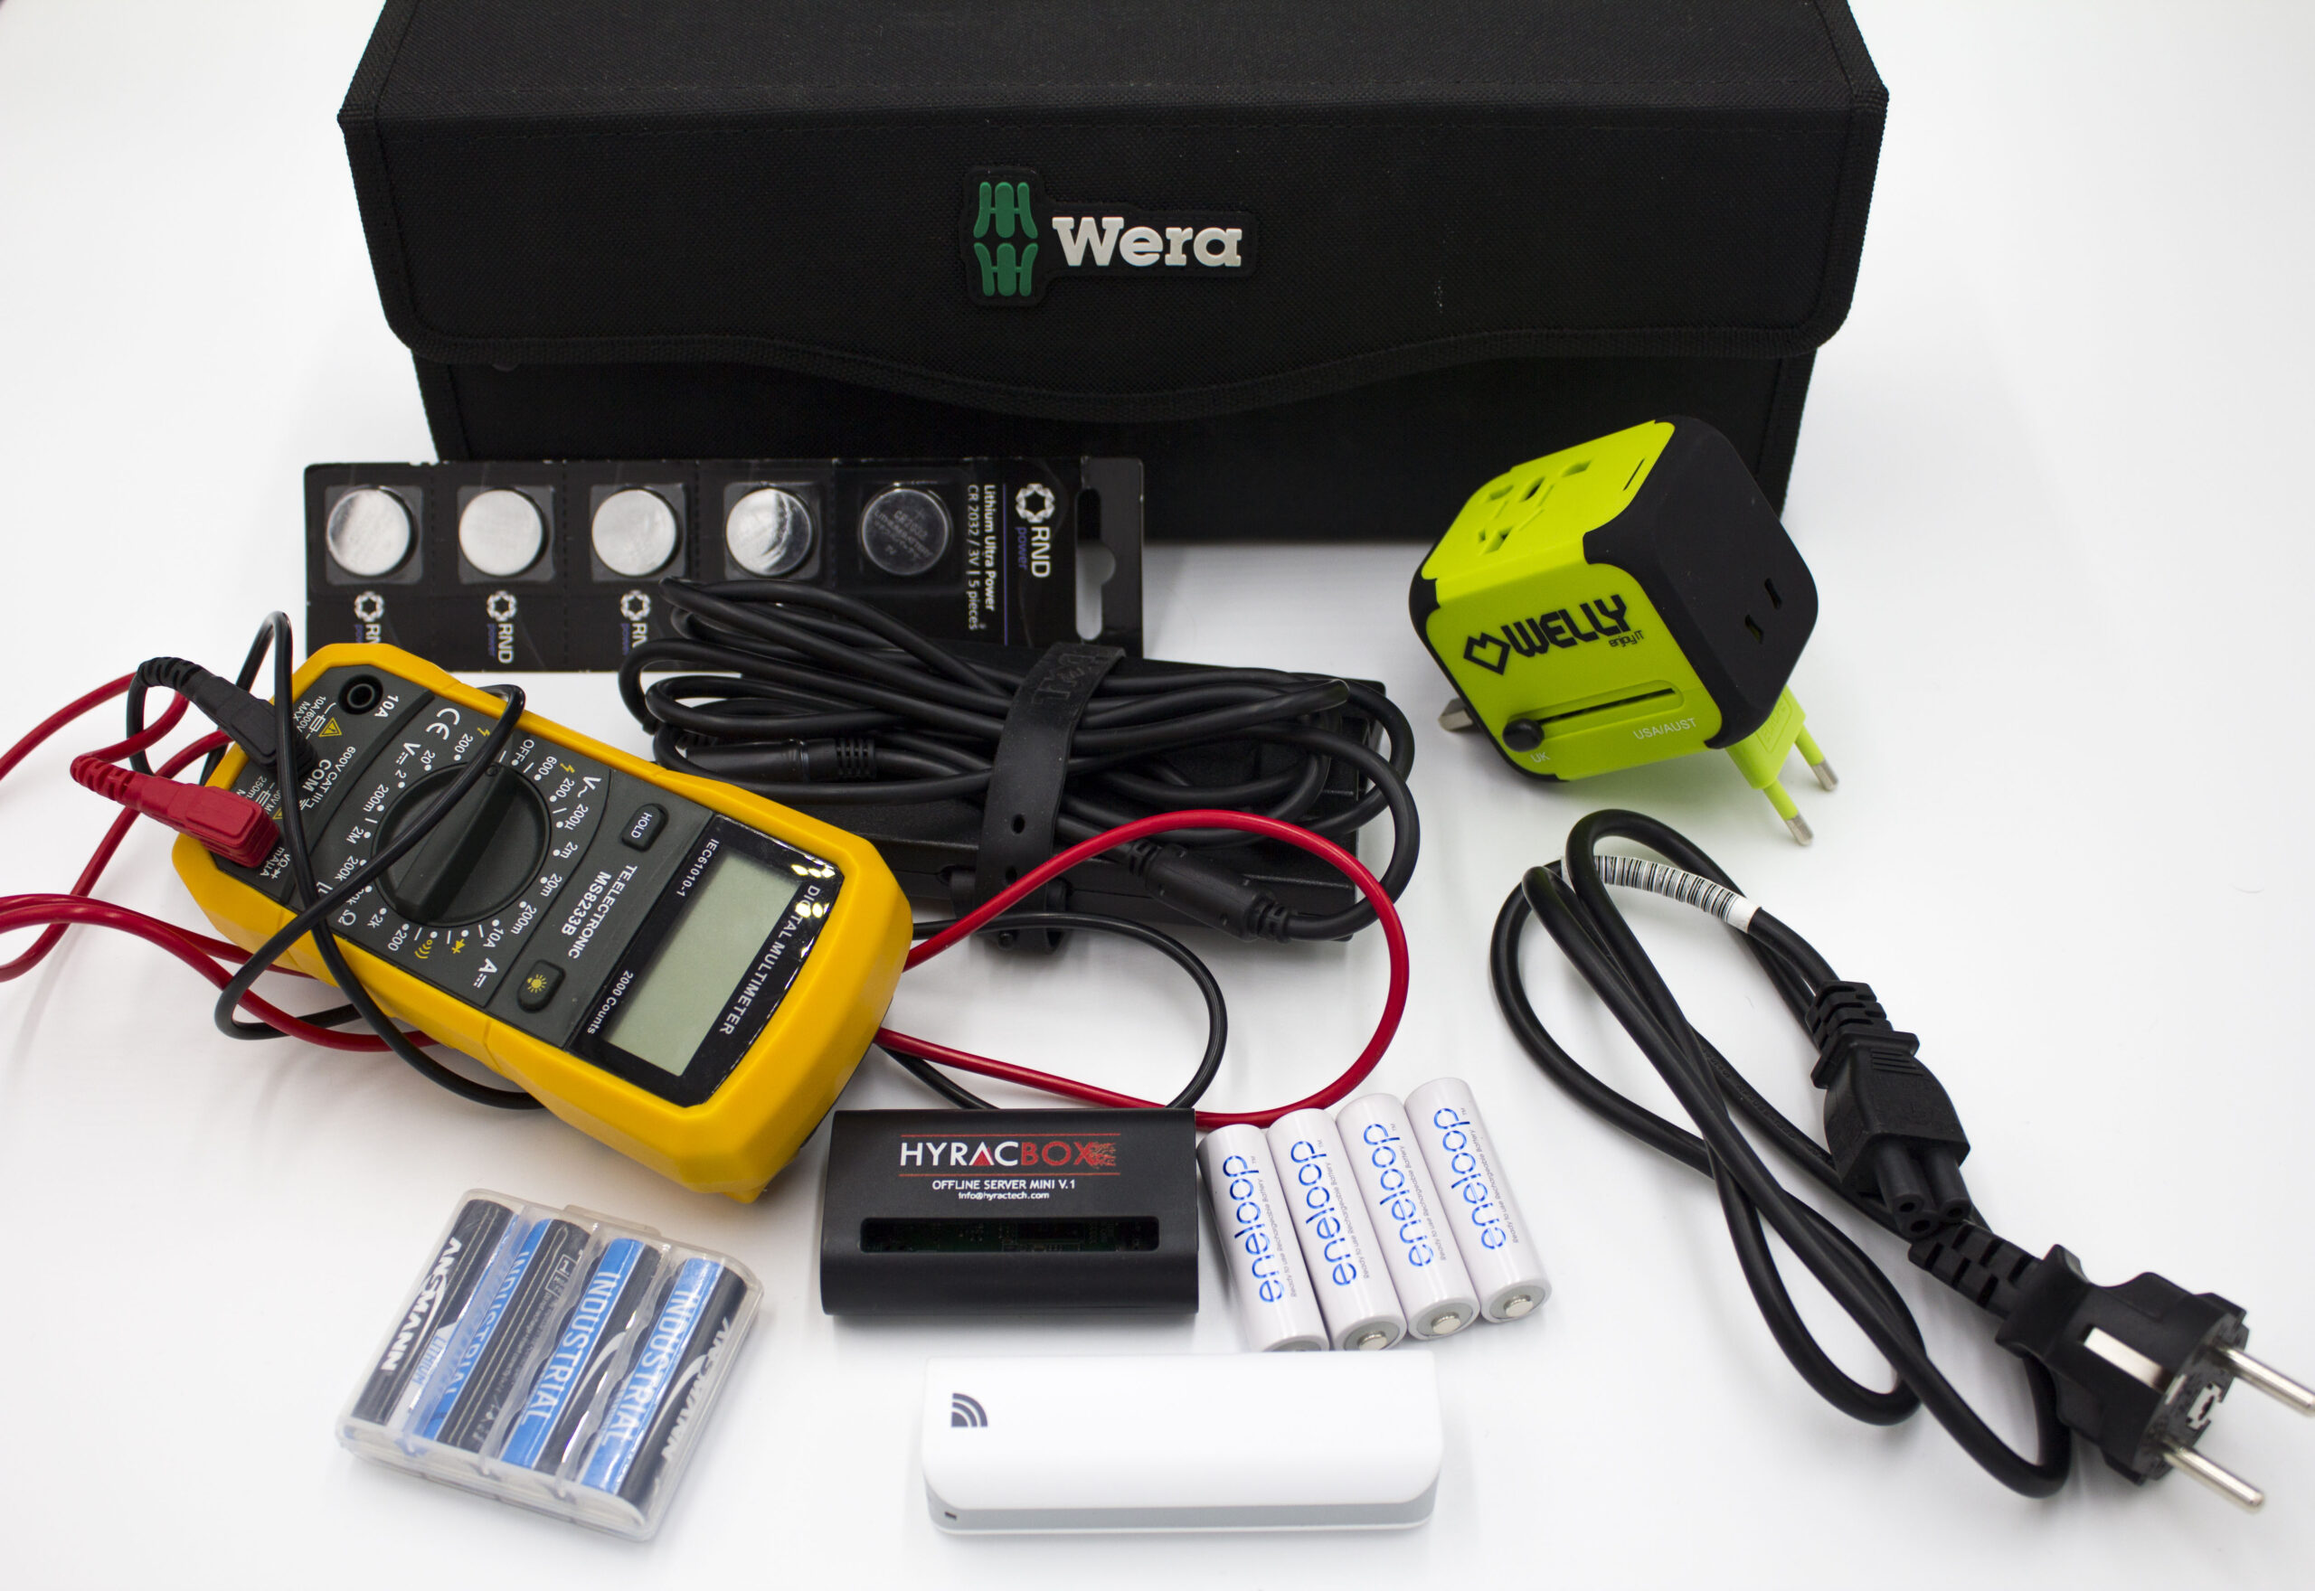
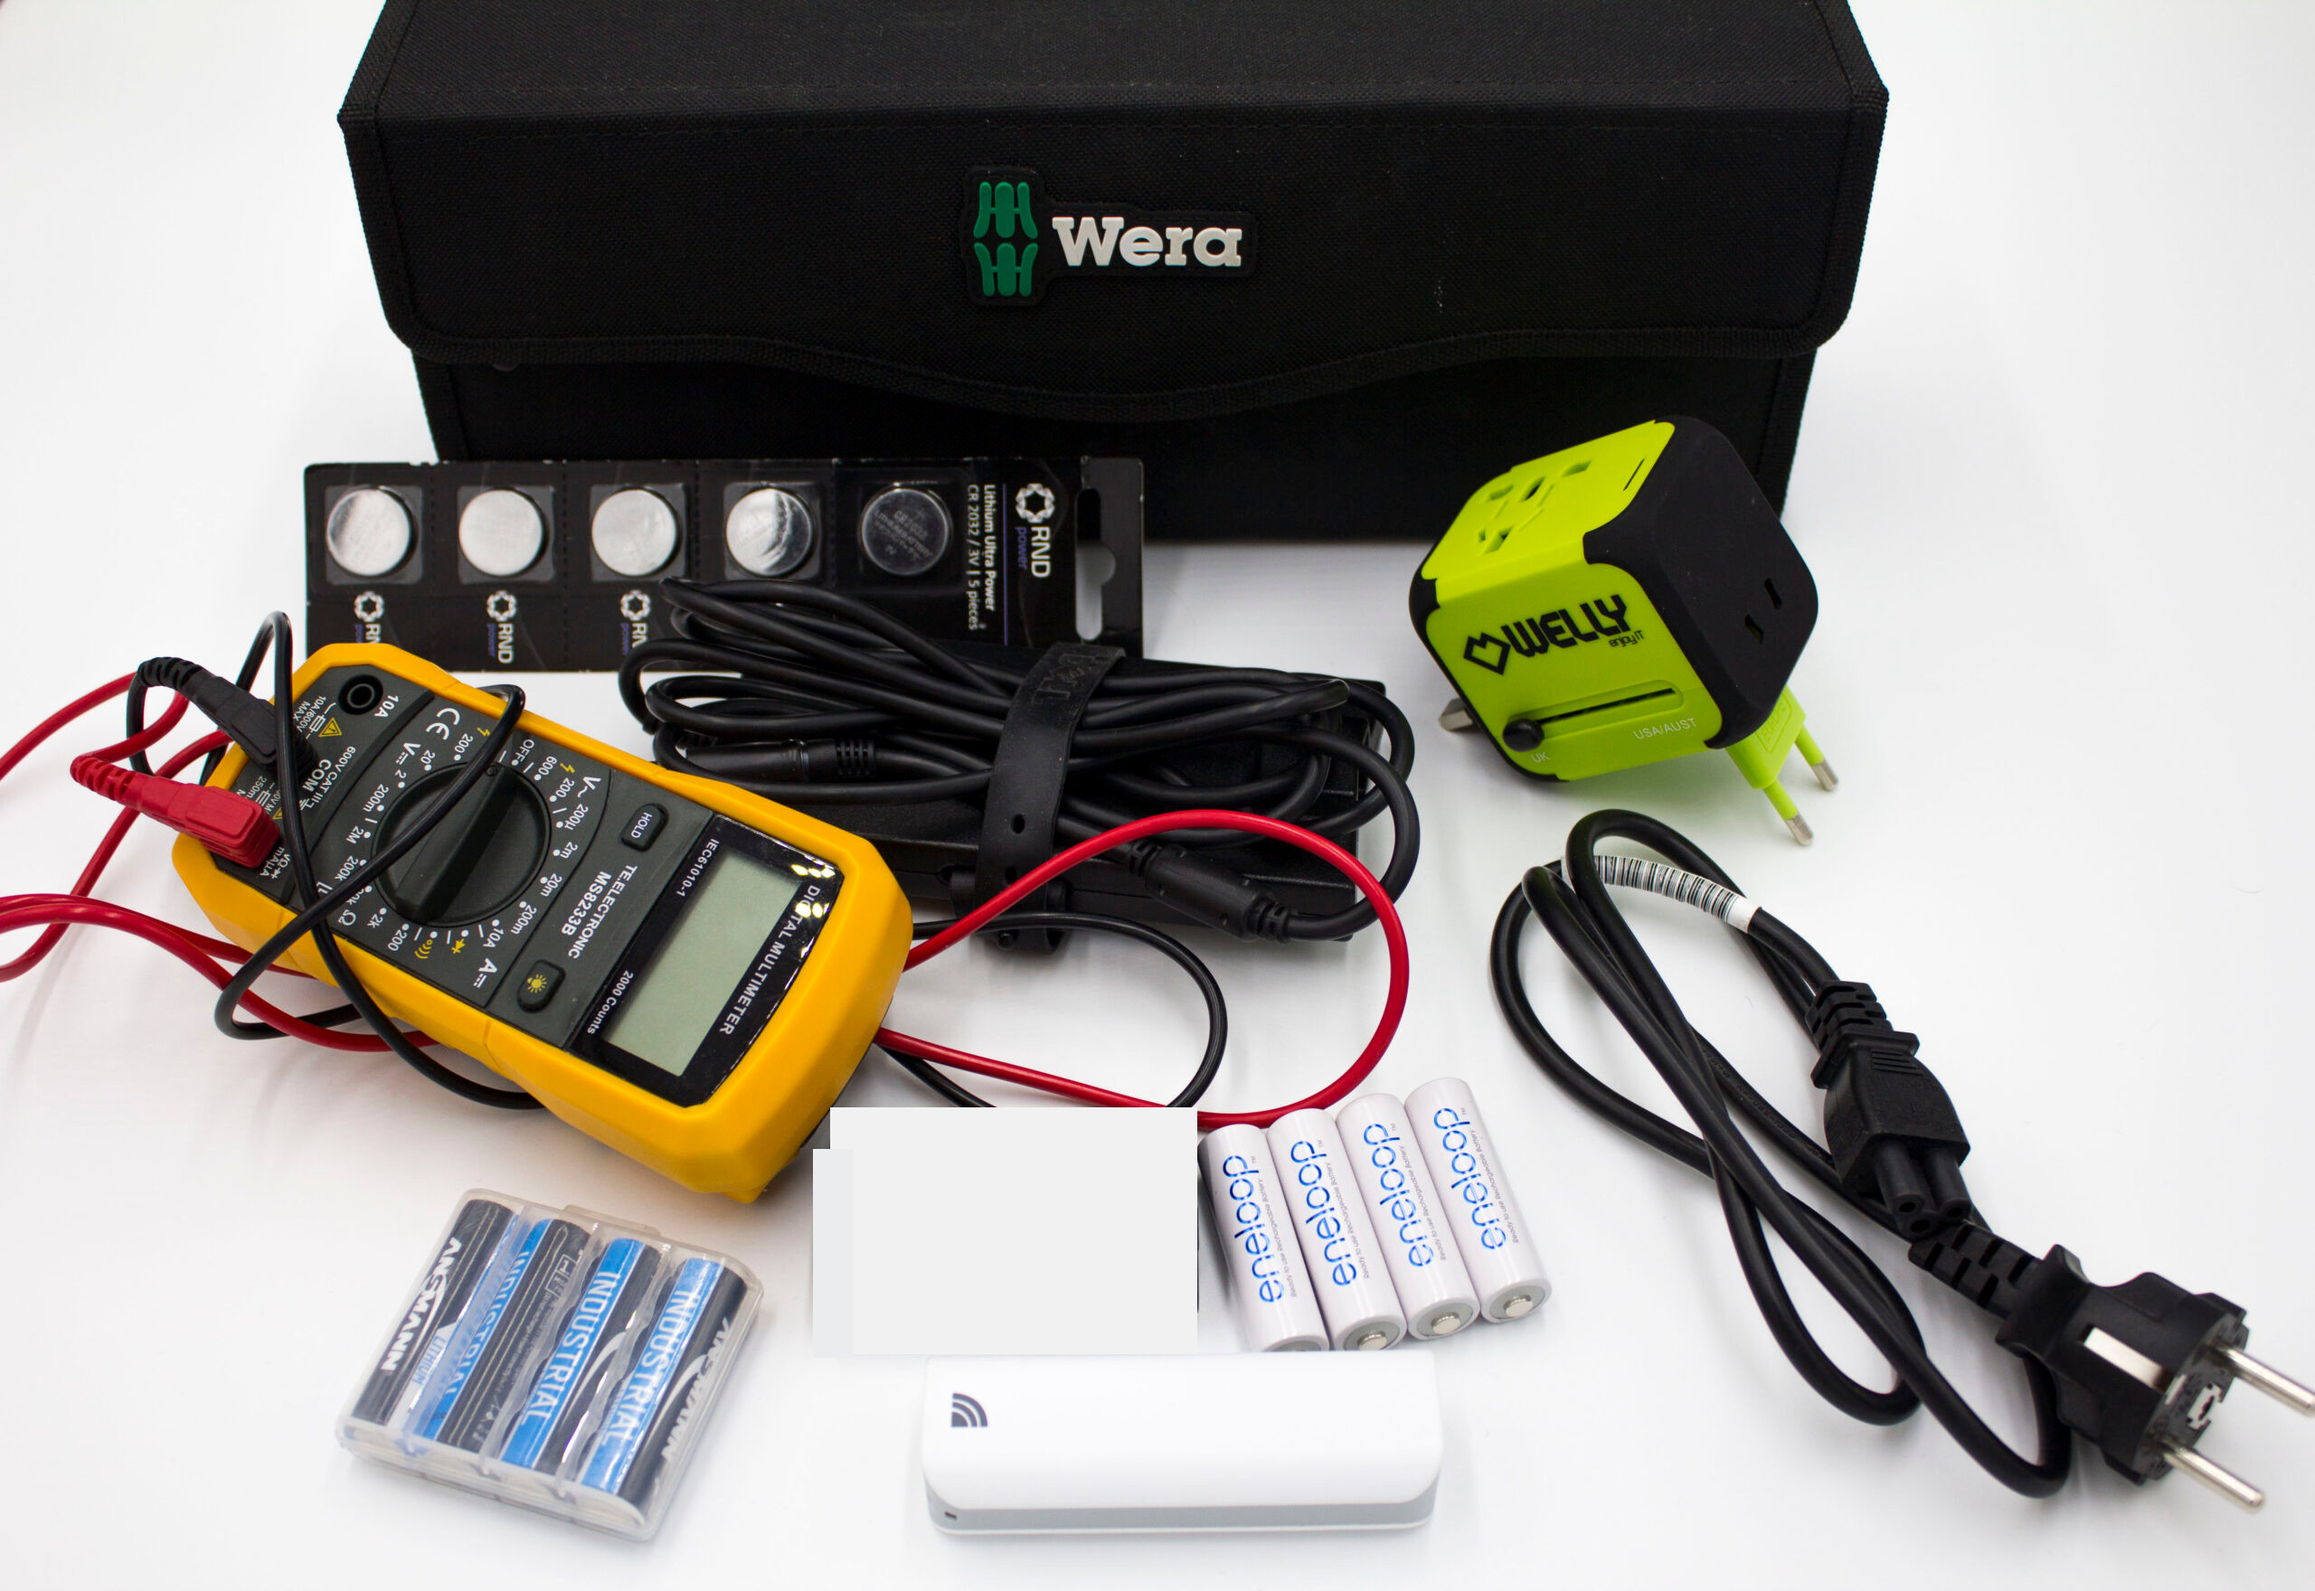
removed hyracbox fixes #3

diff --git a/CONTENT.md b/CONTENT.md
@@ -1,12 +1,12 @@
 # #ASKmod Content
 
-| Version: | 1.1.0        |
+| Version: | 1.1.1        |
 | -------- | ------------ |
 | License: | [CC-BY-SA 4.0](LICENSE.md) |
 
 ## Travel Set
 
-![#ASKmod Travel Set](https://raw.githubusercontent.com/opencultureagency/ASKmod-Travel-Set/f9ebd2bf247bf1a18f2b3f3d147aa10bb3b52500/images/ASKmod-Travel-Set.jpg)
+![#ASKmod Travel Set](images/ASKmod-Travel-Set.jpg)
 
 ## Items
 
@@ -24,4 +24,4 @@
 
 ## Reference
 
-GitHub Repository: https://github.com/opencultureagency/ASKmod-Travel-Set
+GitHub Repository: https://github.com/opencultureagency/ASKmod-Travel-Se1
